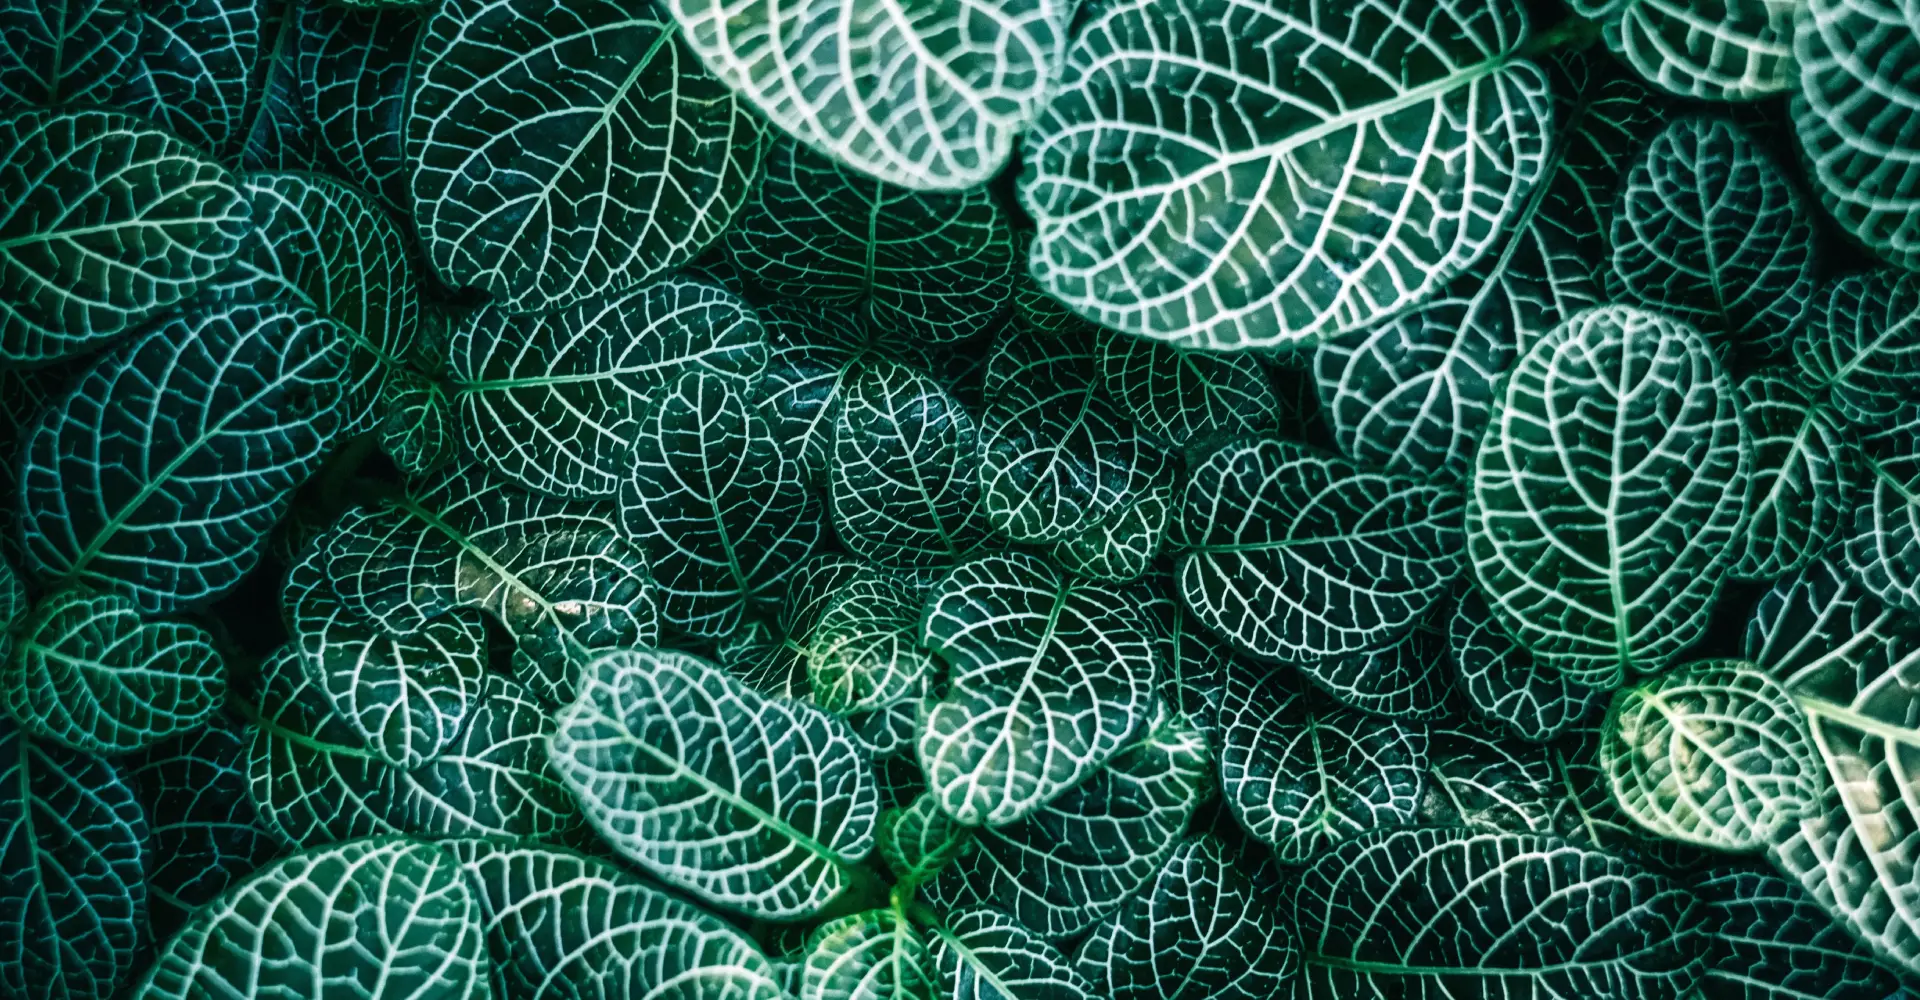
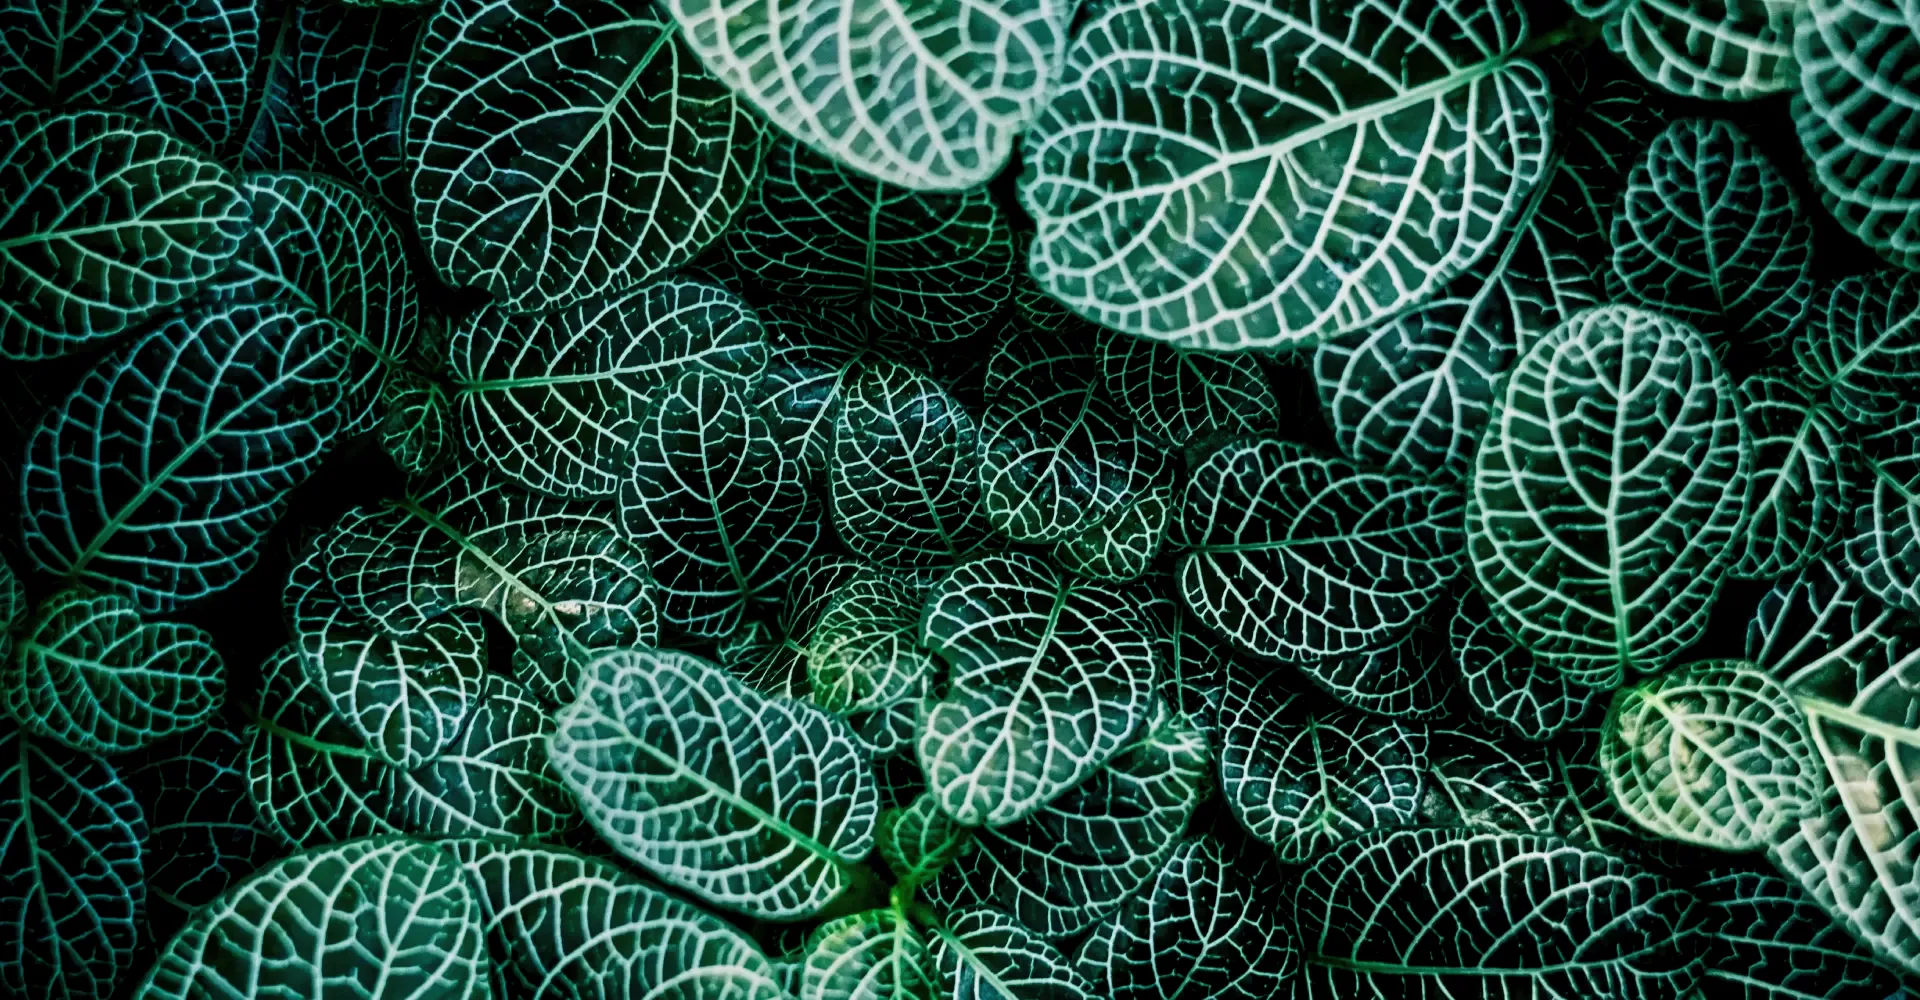
changes to gallery images

diff --git a/_pages/about.md b/_pages/about.md
@@ -14,7 +14,7 @@ selected_papers: false # includes a list of papers marked as "selected={true}"
 social: false  # includes social icons at the bottom of the page
 
 hero_area:
-  intro: "Hi I'm Tobias Klein."
+  intro: "Hi, I'm Tobias Klein."
   job: "Machine Learning Expert, Data Scientist"
   description: "I spend a lot of time building machine learning solutions"
   btn-text: "Find out more about my skills."
@@ -22,7 +22,7 @@ hero_area:
   profile-image: "assets/img/profile.jpeg"
 
 author_profile:
-  title: "Predictive modeling is where I excel at."
+  title: "<i>Predictive modeling is where I excel at</i>."
   description: ""
 
 social-links:
@@ -32,60 +32,42 @@ social-links:
   linkedin: "https://www.linkedin.com/in/deep-learning-mastery/"
 ---
 
-## README.md
+## Welcome
 
-On this website you can learn more about my skills in the field of machine
-learning.
+> Embracing the power of predictive modeling, I meld data and
+innovation, to unravel patterns today for actionable insights tomorrow, paving
+the way to a future steered by foresight and proactive decision-making.
 
-### Overview
-The overall idea behind this website is to lower transaction costs by
-transparently including my code and descriptions for every step I take in every
-article posted on this website.<br> Writing reproducible Python code is an
-important aspect for me, along with often using [kaggle
-datasets](https://www.kaggle.com/datasets) as input and [kaggle
-competitions](https://www.kaggle.com/competitions) for reference scores and real
-life machine learning problems.
-Entering kaggle competitions provides great feedback on how good one's model
-predictions are compared to other competitors.
+### The Concept
 
-### Python
-Python is the main programming language I use. I am proficient in MySQL for data
-import (using `sqlalchemy` to import data for example). You can find a detailed
-overview of Python libraries I use in the [**Toolkit Section of the CV page**]({% link _pages/cv.md %})
+This site stands for openness and simplicity. It presents my work in an easy-to-understand manner, showing the work I've done from start to finish. I use Python for creating reusable solutions, and often engage with [Kaggle datasets](https://www.kaggle.com/datasets) and [competitions](https://www.kaggle.com/competitions) to test and compare my work.
 
-All articles found under [projects]({{ '/projects/' | relative_url }}) belong to one or more
-of the following categories.
+### The Tools
 
+I mainly use Python, with strong skills in MySQL for bringing in data (using `sqlalchemy`). You can see a complete list of the Python tools I use on the [**Toolkit Section of the CV page**]({% link _pages/cv.md %}).
 
-### data-preprocessing
+Look at the [projects]({{ '/projects/' | relative_url }}) page to see a variety of my work.
 
-Articles in this category have a strong focus on transforming *messy tabular
-data*, that does not meet the minimum requirements in order to be used as input
-to train a machine learning model. Feature engineering is not the focus here,
-given that *clean data* is a prerequisite for this step. Below is a selection of
-articles I have written on the topic.
+### Data Preprocessing
 
-[**cleaning a web scraped 47 column pandas dataframe part 3**]({% link _projects/cleaning-a-web-scraped-47-column-br-pandas-dataframe-br-part-3.md %})<br>
-[**cleaning a web scraped 47 column pandas dataframe part 4**]({% link _projects/cleaning-a-web-scraped-47-column-br-pandas-dataframe-br-part-4.md %})<br>
-[**advanced geospatial feature creation**]({% link _projects/advanced-geospatial-feature-creation.md %})<br>
+Projects in this group show my ability to make *disorderly tabular data* clean and ready for machine learning. Some of the works that explain this skill include:
 
+- [**Cleaning a web scraped 47 column pandas dataframe: Part 3**]({% link _projects/cleaning-a-web-scraped-47-column-br-pandas-dataframe-br-part-3.md %})
+- [**Cleaning a web scraped 47 column pandas dataframe: Part 4**]({% link _projects/cleaning-a-web-scraped-47-column-br-pandas-dataframe-br-part-4.md %})
+- [**Advanced Geospatial Feature Creation**]({% link _projects/advanced-geospatial-feature-creation.md %})
 
-### deep-learning
+### Deep Learning
 
-[**the math behind \"stepping the weights\"**]({% link _projects/the-math-behind-br-stepping-the-weights.md %})<br>
-[**automation using a test harness for deep learning: part 1**]({% link _projects/automation-using-a-test-harness-br-for-deep-learning-br-part-1.md %})<br>
-[**automation using a test harness for deep learning: part 2**]({% link _projects/automation-using-a-test-harness-br-for-deep-learning-br-part-2.md %})<br>
+Here, you'll find my high-level work in deep learning. They cover both theory and practice:
 
-### tabular-data
+- [**The Math behind \"Stepping the Weights\"**]({% link _projects/the-math-behind-br-stepping-the-weights.md %})
+- [**Automation using a Test Harness for Deep Learning: Part 1**]({% link _projects/automation-using-a-test-harness-br-for-deep-learning-br-part-1.md %})
+- [**Automation using a Test Harness for Deep Learning: Part 2**]({% link _projects/automation-using-a-test-harness-br-for-deep-learning-br-part-2.md %})
 
-The articles in this category can partially overlap with the ones in the
-data-preprocessing category in the way, that data cleaning is mentioned as well.
-Apart from the potential overlap, the content of these articles can be about any
-step in the machine learning process. E.g., using a deep learning model on
-tabular data, feature engineering, cross-validation, or hyperparameter
-optimization, to name a few. Below is a selection of articles found under this
-category.
+### Tabular Data
 
-[**fill missing values and categorical embeddings**]({% link _projects/deep-dive-tabular-data-pt-1.md %})<br>
-[**kaggle submission 1: training RandomForestRegressor and deep learning model**]({% link _projects/deep-dive-tabular-data-pt-6.md %})<br>
-[**kaggle submission 2: XGBoost Regressor - RandomSearchCV**]({% link _projects/deep-dive-tabular-data-pt-7.md %})<br><br>
+This group contains a mix of works that deal with many parts of the machine learning process, like cleaning data, creating features, applying deep learning models to table data, checking with cross-validation, and tweaking with hyperparameter optimization. You might like to see:
+
+- [**Fill missing values and categorical embeddings**]({% link _projects/deep-dive-tabular-data-pt-1.md %})
+- [**Kaggle submission 1: Training RandomForestRegressor and Deep Learning model**]({% link _projects/deep-dive-tabular-data-pt-6.md %})
+- [**Kaggle submission 2: XGBoost Regressor - RandomSearchCV**]({% link _projects/deep-dive-tabular-data-pt-7.md %})

diff --git a/_projects/youtube-test-post-embed.md b/_projects/youtube-test-post-embed.md
@@ -1,0 +1,75 @@
+---
+layout: distill
+title: 'Data Mining: Real-Estate Prediction Models and Problem-Solving in Action'
+date: 2023-05-09
+description: 'In the current era of data-driven decision making, understanding the intricacies of data extraction, cleansing, validation, and enrichment is a valuable asset for businesses across all sectors.'
+img: 'assets/img/838338477938@+-791693336-video.webp'
+tags: ['etl', 'data-extraction',
+'problem-solving', 'video', 'feature-enrichment']
+category: ['tabular-data']
+authors: 'Tobias Klein'
+comments: true
+---
+
+
+# Introduction to Data Extraction and Problem-Solving in Real Estate Analytics
+
+In the current era of <strong>data-driven decision-making</strong>,
+understanding the intricacies of <i>data extraction, cleansing, validation, and
+enrichment</i> is a valuable asset for businesses across all sectors.
+
+
+> In this YouTube video, I showcase an intriguing project I completed: a deep-dive
+into data extraction and pre-processing for a real-estate prediction model. 
+
+This video underscores the nuances of working with <i>complex and unstructured
+data, particularly from websites that don't readily offer <strong>API</strong>
+access</i>. It mirrors the real-world scenario where important data can be
+hidden or nested within unconventional formats, demanding innovative
+problem-solving skills and a deep understanding of data structures. 
+
+In my work, I demonstrate how I accessed an archive of rental apartment
+listings, using these data to build an impactful machine learning model for real
+estate pricing. This model was developed in the context of <strong>hyperparameter
+optimization</strong> for `Lasso Regression` and `XGBoostRegressor` models, with <strong>predictive
+performance</strong> and <strong>interpretability</strong> forming the critical evaluation criteria.
+
+Beyond simply extracting and modeling the data, I emphasize the importance of
+data cleansing, validation, and enrichment, which ultimately contribute to the
+quality and accuracy of the resulting model. Notably, I delve into the problem
+of accurately obtaining and validating GPS coordinates from the listings, and
+how this information can be leveraged to provide additional value, such as
+determining neighborhood noise levels or the distance to the nearest public
+transportation station.
+
+In an industry that's ever more reliant on data, this video provides a clear
+demonstration of how meticulous data handling and innovative problem-solving can
+yield profound insights. It serves as a testament to the applicability of these
+methods to real-world industry problems, from improving the accuracy of
+predictive models to enabling smarter, data-driven decision-making processes. 
+
+Whether you are a data enthusiast, a professional working in real estate
+analytics, or simply curious about how data science is applied in a real-world
+context, this video has something for you. I invite you to watch, learn, and
+discover how data, when correctly handled and interpreted, can indeed be
+transformed into actionable insights.
+
+## Video
+
+
+<iframe width="660" height="415"
+src="https://www.youtube-nocookie.com/embed/95_aIW4-F2s" title="YouTube video
+player" frameborder="0" allow="accelerometer; autoplay; clipboard-write;
+encrypted-media; gyroscope; picture-in-picture; web-share"
+allowfullscreen></iframe>
+<br>
+
+
+<footer>
+    <h2>Join the Conversation</h2>
+    <p>Thank you for reading my article! Your opinions, ideas and questions are what keep this discussion alive and enriching. I'd love to hear what you think about this topic.</p>
+    <p>If you found this piece interesting or insightful, please consider liking, sharing or leaving a comment below. Your interaction can help bring this information to more people and spark thoughtful discussion.</p>
+    <p>Also, don't forget to follow me on social media for updates on new articles and my work. You can find the links to my profiles at the top or bottom of the page. I look forward to connecting with you!</p>
+    <p>If you have any specific inquiries or opportunities for collaboration, feel free to reach out to me directly. I'm always open to new ideas and perspectives!</p>
+</footer>
+

diff --git a/_projects/automation-using-a-test-harness-br-for-deep-learning-br-part-2.md b/_projects/automation-using-a-test-harness-br-for-deep-learning-br-part-2.md
@@ -3,7 +3,7 @@ layout: distill
 title: 'Automation Using A Test Harness<br>For Deep Learning:<br>Part 2'
 date: 2022-12-15
 description: 'This is Part 2 in the series, where we explore how the fastai deep learning library can be used to conduct structured empirical experiments on a novel and small dataset. The dataset consists of 850 images and an almost uniform distribution for the target labels. There are two labels in total, "male" and "female" that are assigned the gender of the model depicted in any of the images in the dataset.'
-img: 'assets/img/838338477938@+-67822330.jpg'
+img: 'assets/img/67822330-automation.webp'
 tags: ['binary-classification', 'deep-learning', 'fastai', 'hyperparameter-optimization','image-data']
 category: ['deep-learning']
 authors: 'Tobias Klein'

diff --git a/_projects/automation-using-a-test-harness-br-for-deep-learning-br-part-1.md b/_projects/automation-using-a-test-harness-br-for-deep-learning-br-part-1.md
@@ -3,7 +3,7 @@ layout: distill
 title: 'Automation Using A Test Harness<br>For Deep Learning:<br>Part 1'
 date: 2022-12-04
 description: 'How to create and use a custom test harness that automates many steps of the deep learning testing process. It lowers GPU idle time, lets one build more models, test more parameter combinations in less time. The fastai library for deep learning is used throughout this article.'
-img: 'assets/img/838338477938@+-67822330.jpg'
+img: 'assets/img/67822330-automation.webp'
 tags: ['binary-classification', 'deep-learning', 'fastai', 'hyperparameter-optimization', 'learning-rate', 'loss-function', 'stochastic-gradient-descent']
 category: ['deep-learning']
 authors: 'Tobias Klein'

diff --git a/_projects/cleaning-a-web-scraped-47-column-br-pandas-dataframe-br-part-4.md b/_projects/cleaning-a-web-scraped-47-column-br-pandas-dataframe-br-part-4.md
@@ -3,7 +3,7 @@ layout: distill
 title: 'Cleaning a web scraped 47 Column<br>Pandas DataFrame<br>Part 4'
 date: 2022-01-11
 description: 'Extensive data cleaning and validation using regular expressions. Showcase of how batch processing several columns of tabular data using pandas, pyjanitor and the re library can look like.'
-img: 'assets/img/838338477938@+-3948324823.jpg'
+img: 'assets/img/838338477938@+-3948324823-data-cleansing.webp'
 tags: ['batch-processing', 'data-validation', 'pandas', 'regular-expressions', 'tabular-data']
 category: ['data-preprocessing']
 comments: true

diff --git a/_projects/cleaning-a-web-scraped-47-column-br-pandas-dataframe-br-part-3.md b/_projects/cleaning-a-web-scraped-47-column-br-pandas-dataframe-br-part-3.md
@@ -3,7 +3,7 @@ layout: distill
 title: 'Cleaning a web scraped 47 Column<br>Pandas DataFrame<br>Part 3'
 date: 2022-01-11
 description: 'Extensive cleaning and validation and creation of a valid GPS column from the records, by joining the longitude and latitude columns together using geometry object Point.'
-img: 'assets/img/838338477938@+-3948324823.jpg'
+img: 'assets/img/838338477938@+-3948324823-data-cleansing.webp'
 tags: ['data-validation', 'dtype-timedelta64','geospatial-feature-engineering', 'pandas', 'tabular-data']
 category: ['data-preprocessing']
 comments: true

diff --git a/_projects/the-tasks-in-every-machine-learning-project-br-unstructured-data.md b/_projects/the-tasks-in-every-machine-learning-project-br-unstructured-data.md
@@ -3,7 +3,7 @@ layout: distill
 title: 'The Tasks In Every Machine Learning Project:<br>Unstructured Data'
 date: 2023-04-13
 description: 'The six tasks in every machine learning project with unstructured data.'
-img: 'assets/img/838338477938@+-398898935.jpg'
+img: 'assets/img/838338477938@+-398898935-workflow.webp'
 tags: ['predictive-modeling', 'hyperparameter-optimization', 'workflow-outline', 'unstructured-data', 'feature-engineering']
 category: ['deep-learning']
 authors: 'Tobias Klein'

diff --git a/_projects/the-tasks-in-every-machine-learning-project-br-tabular-data.md b/_projects/the-tasks-in-every-machine-learning-project-br-tabular-data.md
@@ -3,7 +3,7 @@ layout: distill
 title: 'The Tasks In Every Machine Learning Project:<br>Structured Data'
 date: 2023-02-21
 description: 'The six tasks in every machine learning project with structured data.'
-img: 'assets/img/838338477938@+-398898935.jpg'
+img: 'assets/img/838338477938@+-398898935-workflow.webp'
 tags: ['predictive-modeling', 'hyperparameter-optimization', 'reproducable-code', 'tabular-data', 'feature-engineering']
 category: ['tabular-data']
 authors: 'Tobias Klein'

diff --git a/_projects/cleaning-a-web-scraped-47-column-br-pandas-dataframe-br-part-2.md b/_projects/cleaning-a-web-scraped-47-column-br-pandas-dataframe-br-part-2.md
@@ -3,7 +3,7 @@ layout: distill
 title: 'Cleaning a web scraped 47 Column<br>Pandas DataFrame<br>Part 2'
 date: 2022-01-11
 description: 'More efficient string data cleaning by using the pyjanitor module and method chaining.'
-img: 'assets/img/838338477938@+-3948324823.jpg'
+img: 'assets/img/838338477938@+-3948324823-data-cleansing.webp'
 tags: ['data-cleaning', 'pandas', 'regular-expressions', 'string-manipulation', 'tabular-data']
 category: ['data-preprocessing']
 comments: true
